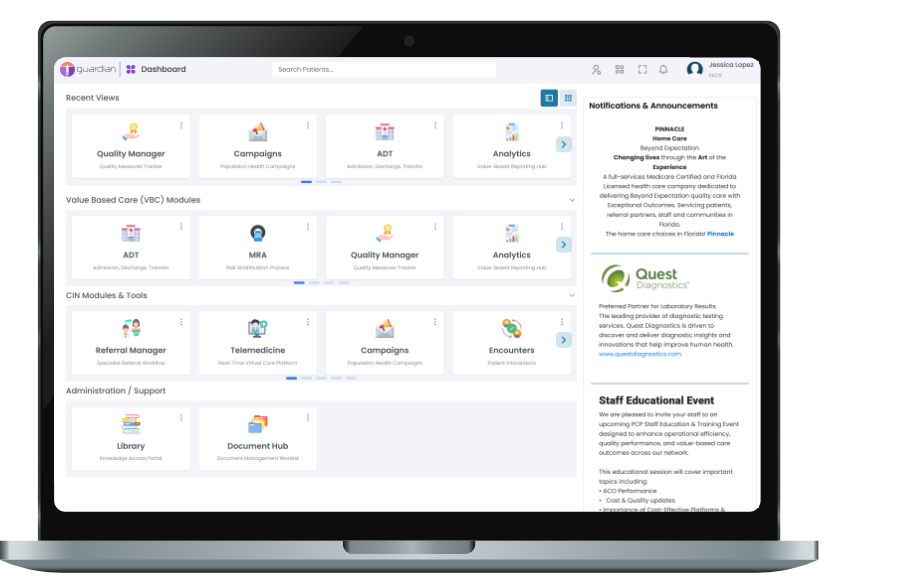
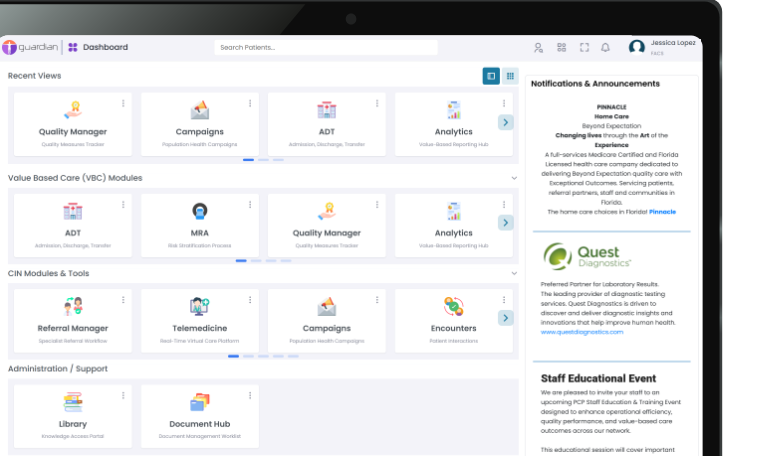
fix: refine hero headline line breaks and crop dashboard UI screen cleanly

diff --git a/src/pages/PlatformPage.jsx b/src/pages/PlatformPage.jsx
@@ -180,8 +180,11 @@ export default function PlatformPage() {
                   <span>GUARDIAN POPULATION HEALTH PLATFORM</span>
                 </div>
 
-                <h1 className="text-3xl sm:text-5xl lg:text-6xl font-bold tracking-tight text-white leading-[1.12] mb-6">
-                  One connected view <span className="text-transparent bg-clip-text bg-gradient-to-r from-purple-200 via-white to-[#ff7a57]">of healthcare.</span>
+                <h1 className="text-3xl sm:text-5xl lg:text-5xl xl:text-6xl font-extrabold tracking-tight text-white leading-[1.14] mb-6">
+                  <span className="block text-white">One connected view</span>
+                  <span className="block mt-1 text-transparent bg-clip-text bg-gradient-to-r from-purple-200 via-white to-[#ff7a57]">
+                    of healthcare.
+                  </span>
                 </h1>
 
                 <p className="text-base sm:text-xl text-purple-100/90 leading-relaxed max-w-2xl mb-10 font-normal">
